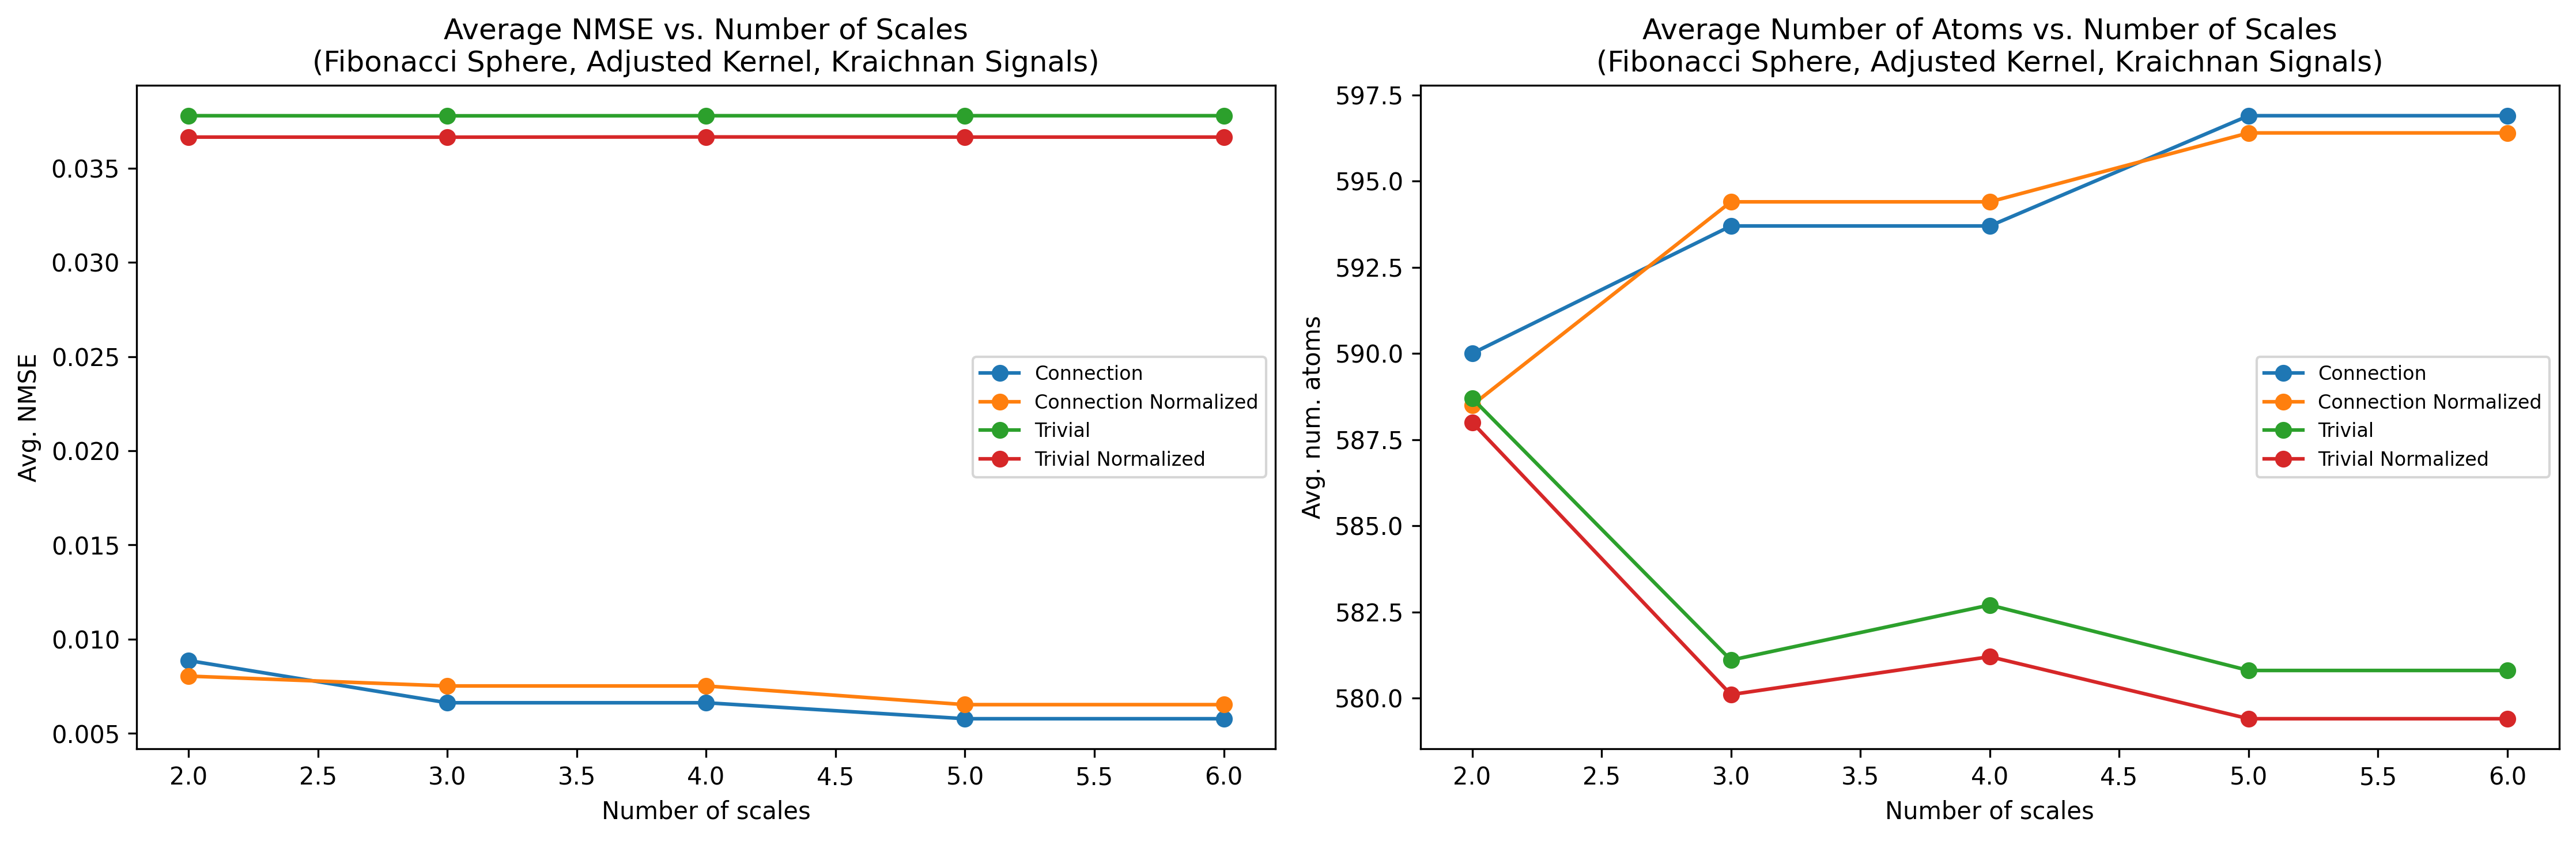
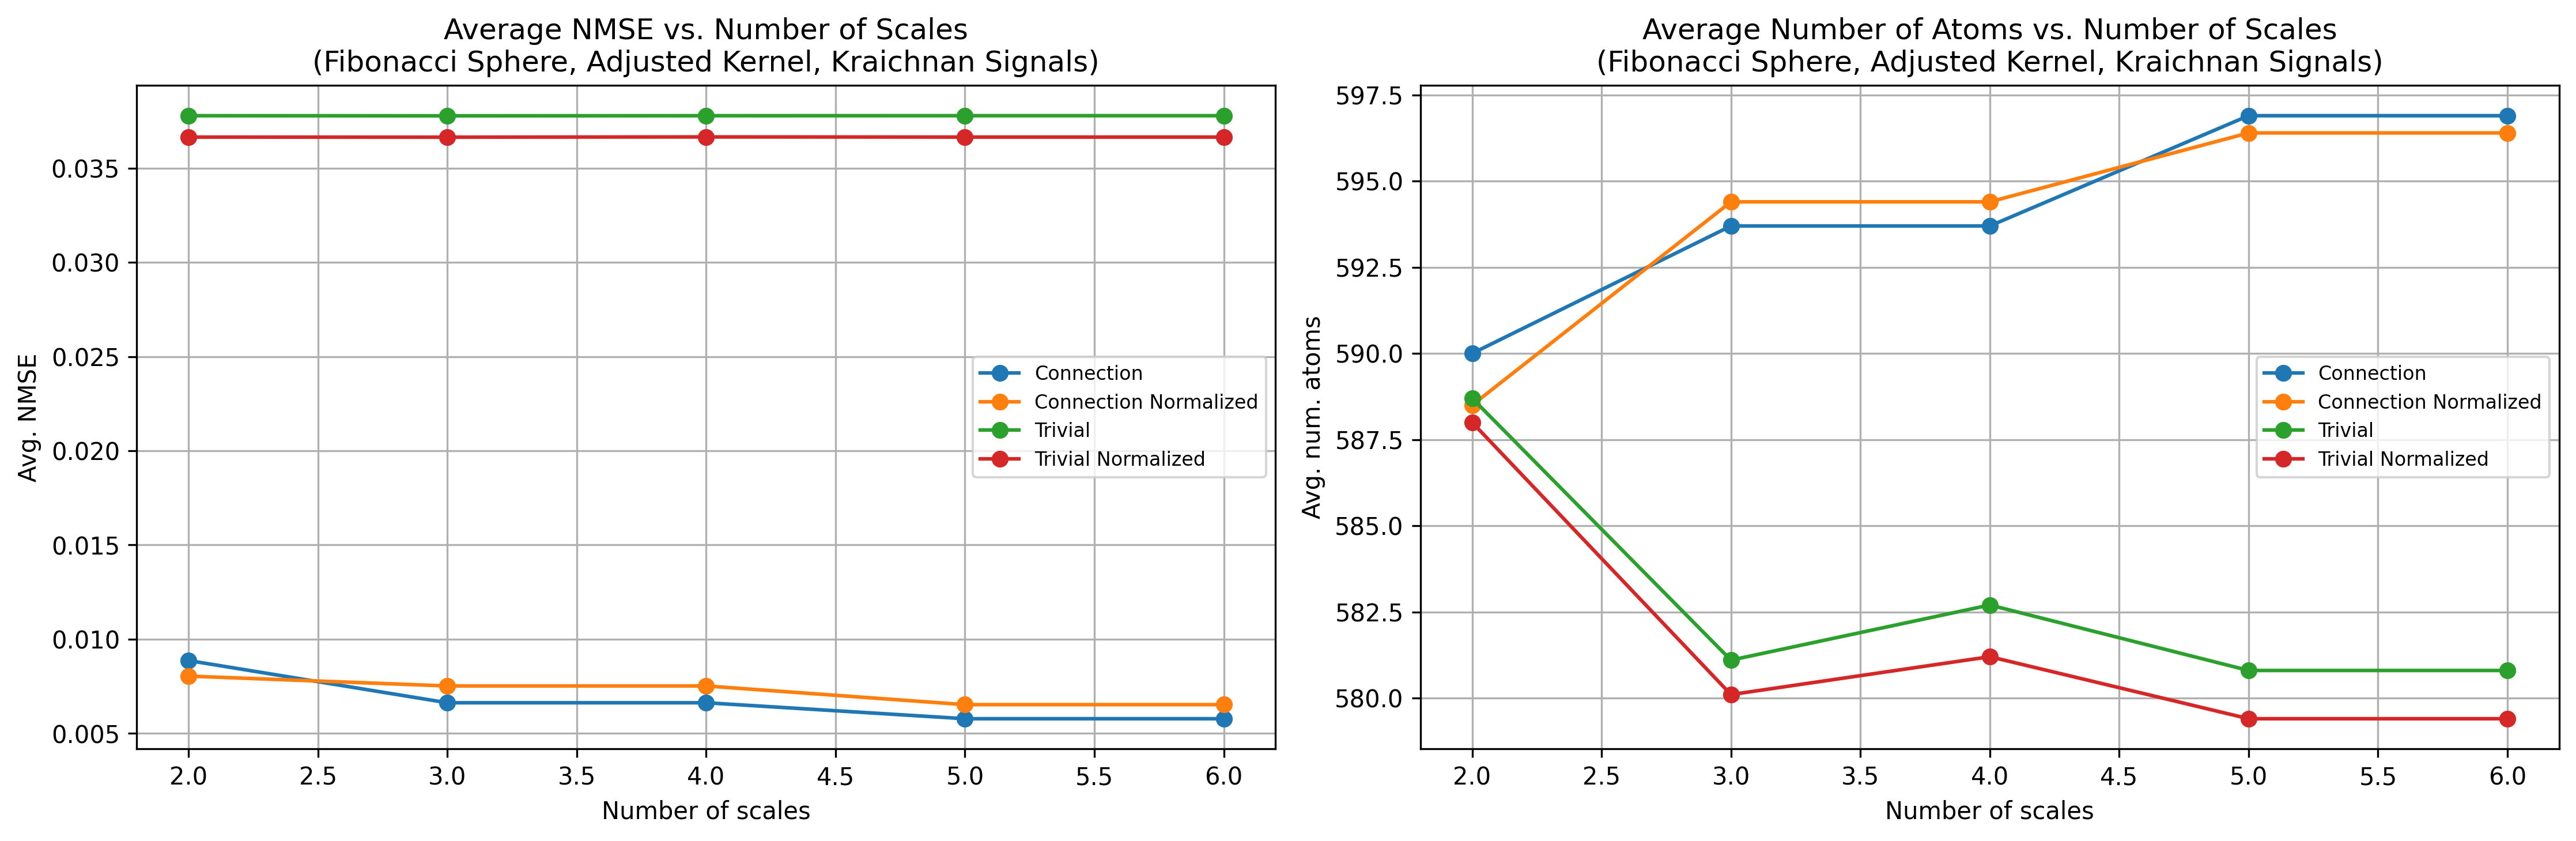
updates

diff --git a/python/tsp.py b/python/tsp.py
@@ -172,16 +172,37 @@ class TSP(VDM):
         eigvals = self.wav.eigvals
         eigvecs = self.wav.eigvecs
 
+        #def kraichnan_r3(eigvals, eigvecs, alpha):
+        #    '''
+        #    Function that computes a vector field for R^3
+        #    laplacian = string that specifies the laplacian to compute the vector field for,
+        #                possible values: 'Connection Normalized', 'Trivial', 'Trivial Normalized', 'Sheaf'
+        #    alpha = vector of length N with coefficients sampled from a normal distribution
+        #    This function assumes that laplacian eigendecompositions have been computed on the outside
+        #    and are now stored in self.laplacian_eigs
+        #    '''
+        #    U = eigvecs @ np.multiply(self.kernel(eigvals), alpha)
+        #    return U
+
         def kraichnan_r3(eigvals, eigvecs, alpha):
             '''
-            Function that computes a vector field for R^3
-            laplacian = string that specifies the laplacian to compute the vector field for,
-                        possible values: 'Connection Normalized', 'Trivial', 'Trivial Normalized', 'Sheaf'
-            alpha = vector of length N with coefficients sampled from a normal distribution
-            This function assumes that laplacian eigendecompositions have been computed on the outside
-            and are now stored in self.laplacian_eigs
+            Kraichnan-style Gaussian vector field generated from the Laplacian spectrum.
+
+            eigvals: Laplacian eigenvalues
+            eigvecs: Laplacian eigenvectors
+            alpha: iid Gaussian coefficients
             '''
-            U = eigvecs @ np.multiply(self.kernel(eigvals), alpha)
+            lam = np.asarray(eigvals, dtype=float)
+
+            # Avoid singularity at the zero eigenvalue / harmonic modes
+            lam_safe = np.maximum(lam, 1e-12)
+
+            # Kraichnan spectral scaling.
+            # self.kernel(eigvals) can be kept if you already defined the desired spectrum there.
+            coeffs = self.kernel(lam_safe) * alpha
+
+            U = eigvecs @ coeffs
+
             return U
 
         self._ensure_orthonormal_bases()
@@ -1123,6 +1144,8 @@ def plot_avg_res_vs_num_scales(num_scales, laplacians, sparsity_results, nmse_re
         else:
             ax[0].set_title(f"Average NMSE vs. Number of Scales")
         ax[0].legend(fontsize=8)
+        #ax[0].set_yscale('log')
+        ax[0].grid(True, which='major')
         # Sparsity vs. Number of Scales
         ax[1].plot(num_scales, [y[1] for y in sorted(cube_sparsity_avg[laplacian].items(), key=lambda x: x[0])],label=laplacian, linestyle='-', marker='o')
         ax[1].set_xlabel("Number of scales")
@@ -1132,6 +1155,8 @@ def plot_avg_res_vs_num_scales(num_scales, laplacians, sparsity_results, nmse_re
         else:
             ax[1].set_title(f"Average Number of Atoms vs. Number of Scales")
         ax[1].legend(fontsize=8)
+        #ax[1].set_yscale('log')
+        ax[1].grid(True, which='major')
     plt.tight_layout()
     plt.savefig(image_path, dpi=300, bbox_inches='tight')
     plt.show()